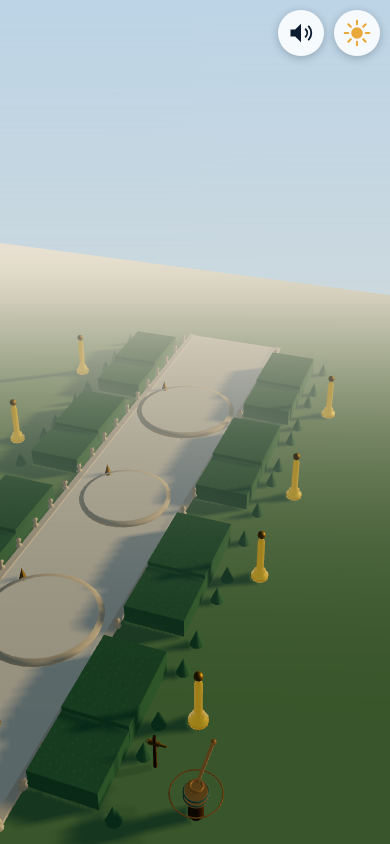
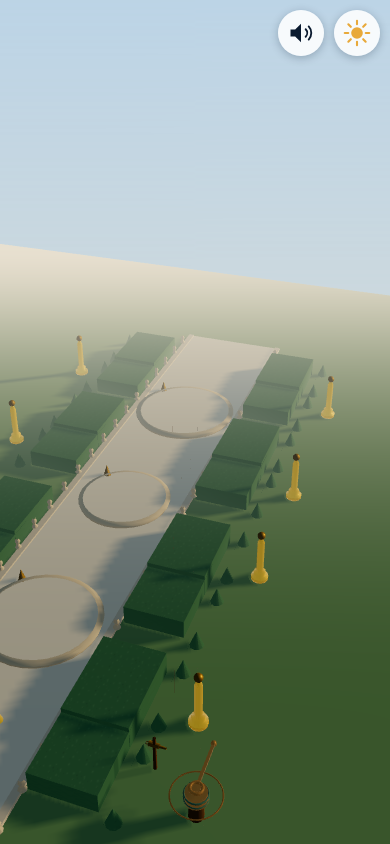
Gate B round 2: merge trench fix, capture pipe-run evidence across matrix
Merged worktree-agent-a1b50f76609c799d2 tip 3c68999 (fast-forward, clean):
recomposed camera beats/player easing, whistle+statue remodel, and the
pipe-run trench fix — buildPipes() now returns trenchGroup as a separate,
separately-named object ('pipe-trench-network') added as a sibling of
pipes.group in src/scenes/index.ts, instead of nested under 'pipe-network'.

Verified src/app/presentationWiring.ts's hide call: it uses
scene.getObjectByName('pipe-network') (exact match only), which is a
different string from 'pipe-trench-network' and a structurally separate
object — no code change was needed there; confirmed the trench renders
throughout pipe-run in the regenerated screenshots below.

Verified from a clean state: npm ci, npm run typecheck, npm test (32/32),
npm run build, npm run test:e2e (9/9, ~10m) — all green, 0 console/page
errors on every spec.

Test infra (tests/e2e/helpers/driveLoop.ts, tests/e2e/full-loop.spec.ts):
added an onTick hook to driveGameLoop so callers can react every iteration,
not just on phase entry; used it to capture pipe-run at waterProgress~0.5
and ~0.85 (390x844) in addition to the existing on-entry capture, and added
'pipe-run' to the multi-state landscape/tablet capture list (previously
garden-idle/valve-turn/fountain-reveal only) so all 4 viewports now have a
pipe-run shot. Gave 'pipe-run' its own finer poll interval (150ms, tightened
further to 50ms past waterProgress 0.6) so these threshold-triggered
[…]

diff --git a/tests/e2e/full-loop.spec.ts b/tests/e2e/full-loop.spec.ts
@@ -32,7 +32,24 @@ test.describe('full loop (A1 / A4 / A7 / screenshot matrix)', () => {
     }
 
     const captured = new Set<string>();
+    // Gate B round 2: judge whether the pipe-run water slug (src/vfx/pipeFlow.ts)
+    // stays visible near arrival, not just at its single on-entry capture —
+    // snapshot explicitly at waterProgress ~0.5 (mid) and ~0.85 (late/near
+    // arrival), independent of the once-per-phase KEY_STATES capture below.
+    let pipeRunMidCaptured = false;
+    let pipeRunLateCaptured = false;
     const visited = await driveGameLoop(page, {
+      onTick: async (debug) => {
+        if (debug.phase !== 'pipe-run') return;
+        if (!pipeRunMidCaptured && debug.waterProgress >= 0.5) {
+          pipeRunMidCaptured = true;
+          await captureState(page, '390x844', 'pipe-run-t50');
+        }
+        if (!pipeRunLateCaptured && debug.waterProgress >= 0.85) {
+          pipeRunLateCaptured = true;
+          await captureState(page, '390x844', 'pipe-run-t85');
+        }
+      },
       onPhaseEnter: async (phase) => {
         if ((KEY_STATES as readonly string[]).includes(phase) && !captured.has(phase)) {
           captured.add(phase);
@@ -62,12 +79,13 @@ test.describe('full loop (A1 / A4 / A7 / screenshot matrix)', () => {
     expect(console_.pageErrors, `unhandled page errors: ${console_.pageErrors.join('\n')}`).toEqual([]);
   });
 
-  // Gate B landscape/tablet re-check (Wave 5): garden-idle + valve-turn +
-  // fountain-reveal at each non-primary viewport, rather than just one
-  // representative state — stops as soon as all three are captured instead
-  // of driving the whole loop to replay-choice, since only the first
-  // fountain's cycle is needed for this evidence.
-  const LANDSCAPE_KEY_STATES = ['garden-idle', 'valve-turn', 'fountain-reveal'] as const;
+  // Gate B landscape/tablet re-check (Wave 5) + pipe-run at 844x390 (Gate B
+  // round 2): garden-idle + valve-turn + pipe-run + fountain-reveal at each
+  // non-primary viewport, rather than just one representative state — stops
+  // as soon as all four are captured instead of driving the whole loop to
+  // replay-choice, since only the first fountain's cycle is needed for this
+  // evidence.
+  const LANDSCAPE_KEY_STATES = ['garden-idle', 'valve-turn', 'pipe-run', 'fountain-reveal'] as const;
 
   for (const viewport of ACCEPTANCE_VIEWPORTS.filter((v) => v.label !== '390x844')) {
     test(`key states at ${viewport.label}`, async ({ page }) => {

diff --git a/tests/e2e/helpers/driveLoop.ts b/tests/e2e/helpers/driveLoop.ts
@@ -5,13 +5,17 @@
 
 import type { Page } from '@playwright/test';
 import type { GamePhase } from '../../../src/contracts';
-import { readDebug } from './debugApi';
+import { readDebug, type VersaillesDebug } from './debugApi';
 import { synthesizeCircularDrag, synthesizeTap } from './gestures';
 
 export interface DriveLoopOptions {
   maxSteps?: number;
   /** Invoked the first time each phase is entered (e.g. to capture a screenshot). */
   onPhaseEnter?: (phase: GamePhase) => Promise<void> | void;
+  /** Invoked every iteration with the latest debug snapshot, before the
+   * phase's own input dispatch — e.g. to capture screenshots at specific
+   * waterProgress thresholds during 'pipe-run' rather than only on entry. */
+  onTick?: (debug: VersaillesDebug) => Promise<void> | void;
   /** Stop as soon as 'replay-choice' is reached. Default true. */
   stopAtReplayChoice?: boolean;
 }
@@ -35,6 +39,8 @@ export async function driveGameLoop(page: Page, options: DriveLoopOptions = {}):
         await options.onPhaseEnter?.(phase);
       }
     }
+
+    await options.onTick?.(debug);
 
     if (phase === 'replay-choice' && (options.stopAtReplayChoice ?? true)) {
       return visited;
@@ -65,9 +71,18 @@ export async function driveGameLoop(page: Page, options: DriveLoopOptions = {}):
         }
         break;
       }
+      case 'pipe-run': {
+        // Finer-grained than the other auto-advancing phases, and finer
+        // still once waterProgress is closing in on 1.0: onTick callers
+        // (e.g. capturing screenshots at specific waterProgress thresholds)
+        // need enough resolution to land a capture before this short phase
+        // (PIPE_RUN_MIN_SEC = 1.8s) has already moved on to water-arrived —
+        // the t:0.85->1.0 window alone can be under 300ms of real time.
+        await page.waitForTimeout(debug.waterProgress > 0.6 ? 50 : 150);
+        break;
+      }
       case 'garden-idle':
       case 'valve-approach':
-      case 'pipe-run':
       case 'fountain-reveal':
       case 'finale':
       default: {
